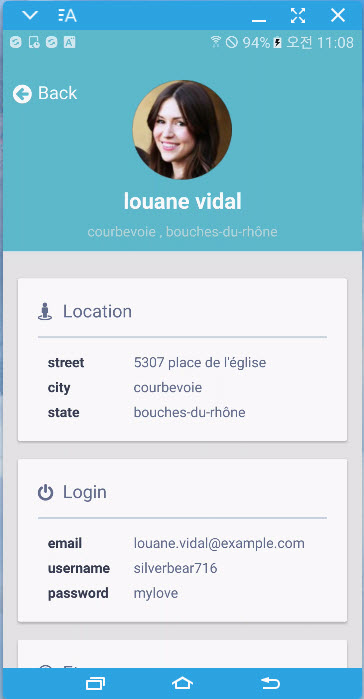
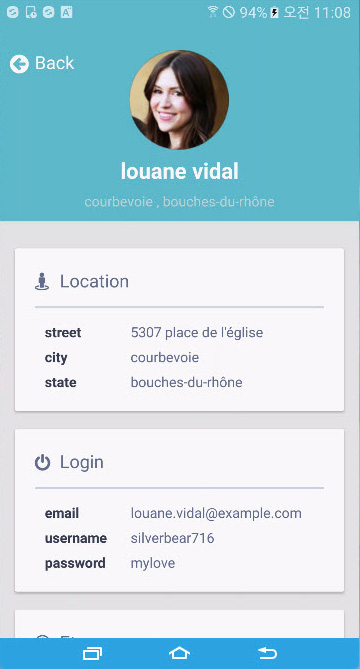
설명 이미지 수정

diff --git a/README.md b/README.md
@@ -34,5 +34,5 @@
 	android
 	<p align="center">
   <img src="https://raw.githubusercontent.com/rtrue/challenge-201704/master/screen/android_list.jpg" width="360"/>
-  <img src="https://raw.githubusercontent.com/rtrue/challenge-201704/master/screen/android_detail.jpg" width="364"/>
+  <img src="https://raw.githubusercontent.com/rtrue/challenge-201704/master/screen/android_detail.jpg" width="360"/>
 	</p>
